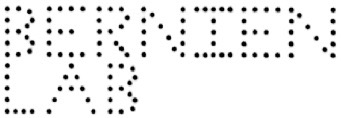
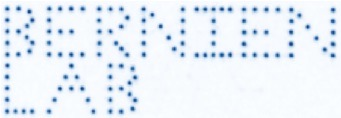
transitions

diff --git a/about.html b/about.html
@@ -144,9 +144,12 @@
               <div style="height:210px;"><span class="tl-line"></span></div>
               <p>Joined Bernien Lab</p>
               <p> Graduate Researcher</p>
+            <div class="timeline_photo">
             <a href="http://bernienlab.com/">
-              <img src="images/bernienlab.png" alt="" style="width:190px;height:80px;">
+              <img src="images/bernienlabBW.png" class="off bern">
+              <img src="images/bernienlab.png" class="on bern">
             </a>
+          </div>
               <div style="height:160px;"><span class="tl-line"></span></div>
               <p>Metric Geometry and Gerrymandering Group</p>
               <p>Summer Researcher</p>
@@ -171,27 +174,30 @@
           <td>
             <div class="tl-content">
               <div style="height:10px;"><span class="tl-line"></span></div>
+            <div class="timeline_photo">
+
               <p>Graduate Research Fellowship</p>
               <p>National Science Foundation</p>
-            <div class="timeline_photo">
-            <a href="https://www.nsfgrfp.org/">
+            <a href="https://www.nsfgrfp.org/" >
               <img src="images/GRFPBW.png" class="off grfp">
               <img src="images/GRFP.png" class="on grfp">
             </a>
           </div>
               <div style="height:160px;"><span class="tl-line"></span></div>
-              <p>Began Ph.D in Physics</p>
-              <p> The University of Chicago</p>
-            <div class="timeline_photo">
-              <a href="https://physics.uchicago.edu/">
-              <img src="images/UCBW.png" class="off uc">
-              <img src="images/UC.png" class="on uc">
-            </a>
+          <a href="https://physics.uchicago.edu/"">
+          <div class="timeline_photo">
+
+                <p>Began Ph.D in Physics</p>
+                <p>University of Chicago</p>
+                <img src="images/UCBW.png" class="off uc">
+                <img src="images/UC.png" class="on uc">
+
           </div>
+          </a>
               <div style="height:150px;"><span class="tl-line"></span></div>
-              <p>Awarded B.S. in Physics</p>
+            <div class="timeline_photo">
+              <p>B.S. in Physics</p>
               <p> Tufts University</p>
-              <div class="timeline_photo">
               <a href=https://as.tufts.edu/physics/>
               <img src="images/TuftsBW.png" class="off tufts" >
               <img src="images/Tufts.png" class="on tufts">

diff --git a/css/responsive.css b/css/responsive.css
@@ -105,21 +105,34 @@
 .timeline_photo{
   position: relative;
   display: inline-block;
+  color:black;
+}
 
+.timeline_photo img{
+  display: inline;
 }
 .timeline_photo .off {
-  display: inline;
   position: absolute;
 }
 .timeline_photo .on {
-  display:inline;
-  top:0;
-  left:0;
   z-index:99;
 }
 .timeline_photo:hover .off{
   opacity:0;
   transition:.3s;
+}
+
+.timeline_photo:hover {
+  -webkit-transition: all .3s ease-in-out;
+  -moz-transition: all  .3s ease-in-out;
+  -o-transition: all  .3s ease-in-out;
+  transition: all  .3s ease-in-out;
+  background-color: #333333;
+  color:white;
+  border-radius: 10px;
+  padding-bottom: 15px;
+  padding-left: 15px;
+  padding-right: 15px;
 }
 
 .tufts{
@@ -133,6 +146,11 @@
 }
 
 .grfp{
+  width:190px;
+  height:80px;
+}
+
+.bern{
   width:190px;
   height:80px;
 }
